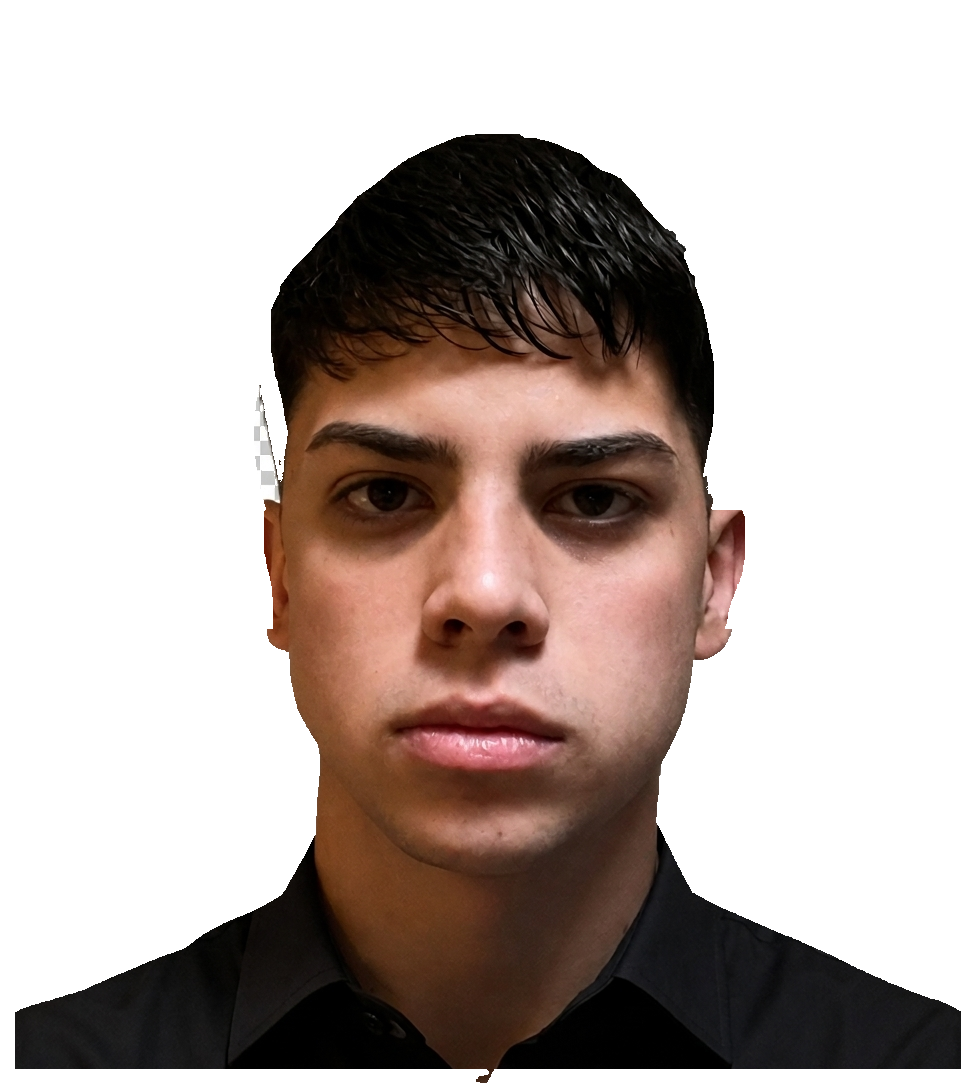
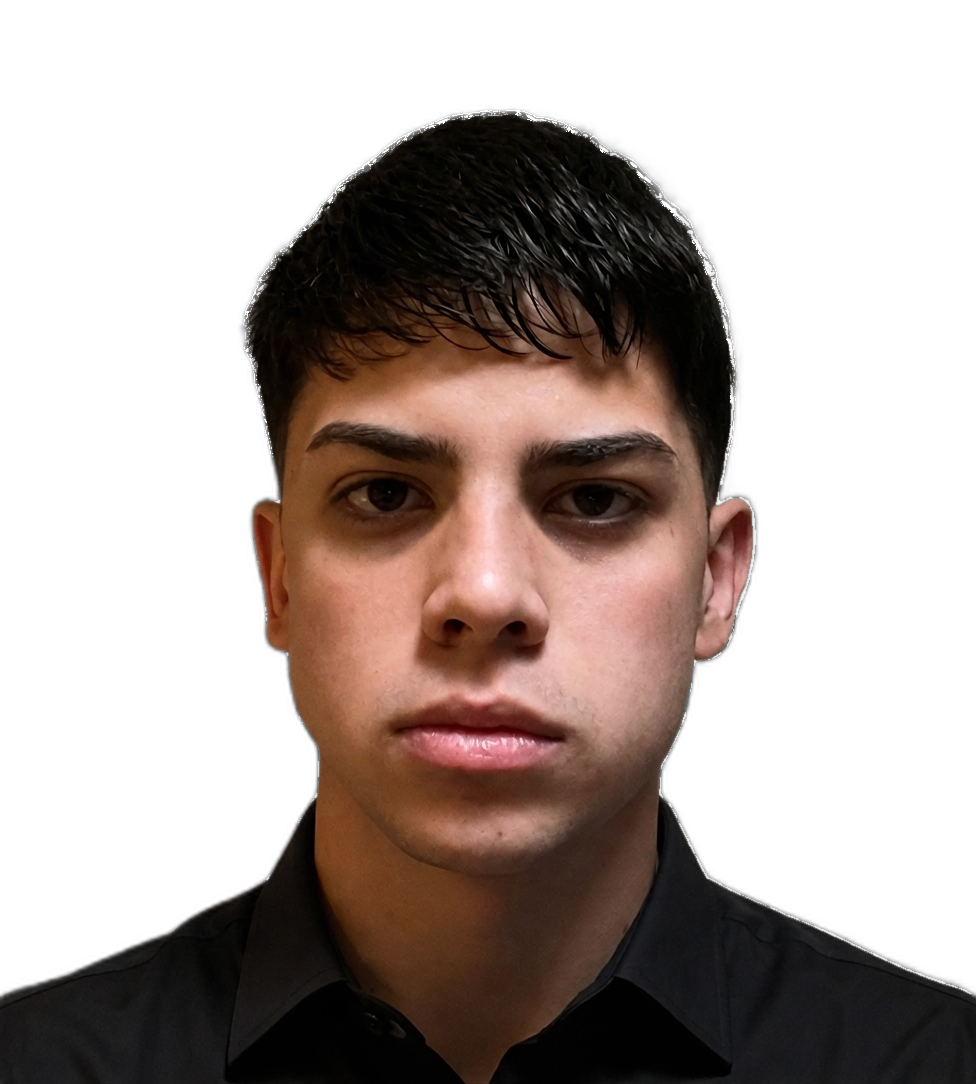
Mejorar foto hero con recorte limpio y ajustar estilos del portafolio.

diff --git a/header-dock.js b/header-dock.js
@@ -1,100 +1,7 @@
 /**
- * Dock magnification (macOS-style) for header contact icons.
- * Uses spring + scale so the effect is clearly visible.
+ * Header contact icons — dock magnification disabled.
+ * Hover feedback lives in CSS (background / brightness / color only).
  */
 (function initHeaderDock() {
-  const dock = document.querySelector(".nav-actions.header-dock");
-  if (!dock) return;
-
-  const icons = Array.from(dock.querySelectorAll(".icon-btn"));
-  if (!icons.length) return;
-
-  const BASE_SCALE = 1;
-  const MAX_SCALE = 1.55;
-  const DISTANCE = 140;
-  const SPRING = { mass: 0.1, stiffness: 150, damping: 12 };
-
-  const reduceMotion = window.matchMedia("(prefers-reduced-motion: reduce)").matches;
-  const finePointer = window.matchMedia("(hover: hover) and (pointer: fine)").matches;
-  if (reduceMotion || !finePointer) return;
-
-  const clamp = (v, min, max) => Math.min(max, Math.max(min, v));
-
-  const interpolate = (value, inMin, inMax, outMin, outMax) => {
-    if (value <= inMin) return outMin;
-    if (value >= inMax) return outMax;
-    const t = (value - inMin) / (inMax - inMin);
-    return outMin + (outMax - outMin) * t;
-  };
-
-  const scaleFromMouse = (clientX, icon) => {
-    if (!Number.isFinite(clientX)) return BASE_SCALE;
-    const bounds = icon.getBoundingClientRect();
-    const distance = clientX - (bounds.left + bounds.width / 2);
-    const left = interpolate(distance, -DISTANCE, 0, BASE_SCALE, MAX_SCALE);
-    const right = interpolate(distance, 0, DISTANCE, MAX_SCALE, BASE_SCALE);
-    return distance < 0 ? left : right;
-  };
-
-  const state = icons.map(() => ({
-    current: BASE_SCALE,
-    target: BASE_SCALE,
-    velocity: 0,
-  }));
-
-  const applyScale = (icon, scale, index) => {
-    const lift = (scale - 1) * -10;
-    icon.style.transform = `translateY(${lift}px) scale(${scale})`;
-    icon.style.zIndex = String(Math.round(scale * 10) + index);
-  };
-
-  let mouseX = Infinity;
-  let raf = 0;
-
-  const tick = () => {
-    let moving = false;
-    const dt = 1 / 60;
-
-    icons.forEach((icon, i) => {
-      const s = state[i];
-      s.target = scaleFromMouse(mouseX, icon);
-
-      const force = -SPRING.stiffness * (s.current - s.target);
-      const damping = -SPRING.damping * s.velocity;
-      const acceleration = (force + damping) / SPRING.mass;
-      s.velocity += acceleration * dt;
-      s.current += s.velocity * dt;
-
-      if (Math.abs(s.current - s.target) > 0.002 || Math.abs(s.velocity) > 0.002) {
-        moving = true;
-      } else {
-        s.current = s.target;
-        s.velocity = 0;
-      }
-
-      applyScale(icon, clamp(s.current, BASE_SCALE, MAX_SCALE + 0.05), i);
-    });
-
-    if (moving || Number.isFinite(mouseX)) {
-      raf = requestAnimationFrame(tick);
-    } else {
-      raf = 0;
-    }
-  };
-
-  const ensureTick = () => {
-    if (!raf) raf = requestAnimationFrame(tick);
-  };
-
-  dock.addEventListener("mousemove", (event) => {
-    mouseX = event.clientX;
-    ensureTick();
-  });
-
-  dock.addEventListener("mouseleave", () => {
-    mouseX = Infinity;
-    ensureTick();
-  });
-
-  icons.forEach((icon, i) => applyScale(icon, BASE_SCALE, i));
+  // Intentionally inactive: no scale / spring on icon hover.
 })();

diff --git a/style.css b/style.css
@@ -499,37 +499,37 @@ body {
 
 .hero-photo {
   width: 100%;
-  max-width: 280px;
+  max-width: 320px;
   height: auto;
   display: block;
   position: relative;
   z-index: 1;
   object-fit: contain;
-  object-position: center bottom;
+  object-position: center center;
   border-radius: 0;
   background: transparent;
   transition: filter 0.3s ease;
-  /* PNG con transparencia: se adapta a cualquier fondo del layout */
-  filter: drop-shadow(0 18px 36px rgba(0, 0, 0, 0.55)) drop-shadow(0 0 28px rgba(110, 231, 255, 0.16));
+  /* Sin sombra negra fuerte (oscurecía los costados) */
+  filter: drop-shadow(0 0 10px rgba(110, 231, 255, 0.05));
 }
 
-/* Efecto de profundidad adicional con glow */
+/* Glow de fondo: reducido (antes lavaba el centro de la cara) */
 .hero-image-wrapper::before {
   content: '';
   position: absolute;
-  width: 300px;
-  height: 300px;
+  width: 260px;
+  height: 260px;
   border-radius: 50%;
-  background: radial-gradient(circle, rgba(110, 231, 255, 0.2) 0%, rgba(110, 231, 255, 0.05) 50%, transparent 70%);
+  background: radial-gradient(circle, rgba(110, 231, 255, 0.08) 0%, rgba(110, 231, 255, 0.02) 50%, transparent 70%);
   filter: blur(50px);
   z-index: 0;
   pointer-events: none;
-  opacity: 0.8;
+  opacity: 0.45;
   transition: opacity 0.3s ease;
 }
 
 .hero-image-wrapper:hover::before {
-  opacity: 1;
+  opacity: 0.55;
 }
 
 /* Botones */
@@ -1862,7 +1862,7 @@ body {
   }
 
   .hero-photo {
-    max-width: 240px;
+    max-width: 280px;
   }
 
   .hero-image-wrapper::before {
@@ -2859,7 +2859,7 @@ a.matrix-badge:hover {
   }
 
   .hero-photo {
-    max-width: 120px !important;
+    max-width: 150px !important;
   }
 
   .hero-image-wrapper::before {

diff --git a/index.html b/index.html
@@ -124,9 +124,9 @@
         <div class="hero-image-wrapper">
           <div class="hero-image-3d">
             <img
-              src="assets/hero-adrian.png?v=4"
-              srcset="assets/hero-adrian.png?v=4 976w"
-              sizes="(max-width: 768px) 240px, 280px"
+              src="assets/hero-adrian.png?v=18"
+              srcset="assets/hero-adrian.png?v=18 976w"
+              sizes="(max-width: 768px) 240px, 320px"
               width="976"
               height="1084"
               alt="Adrián Fredes"
